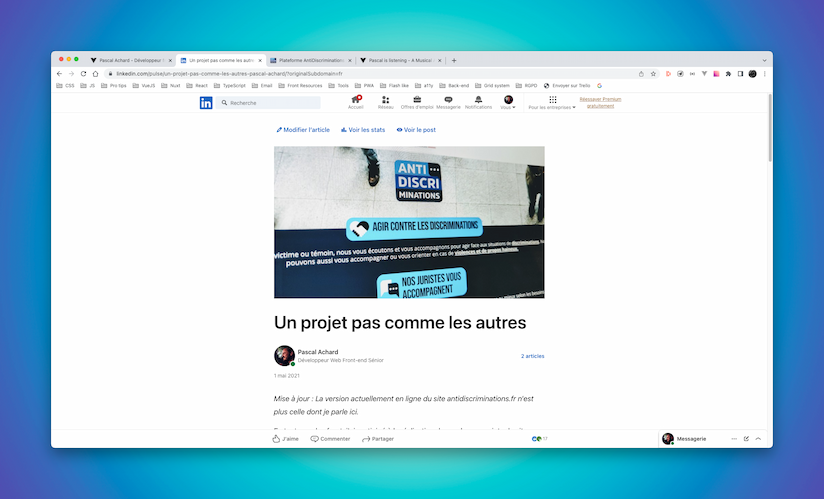
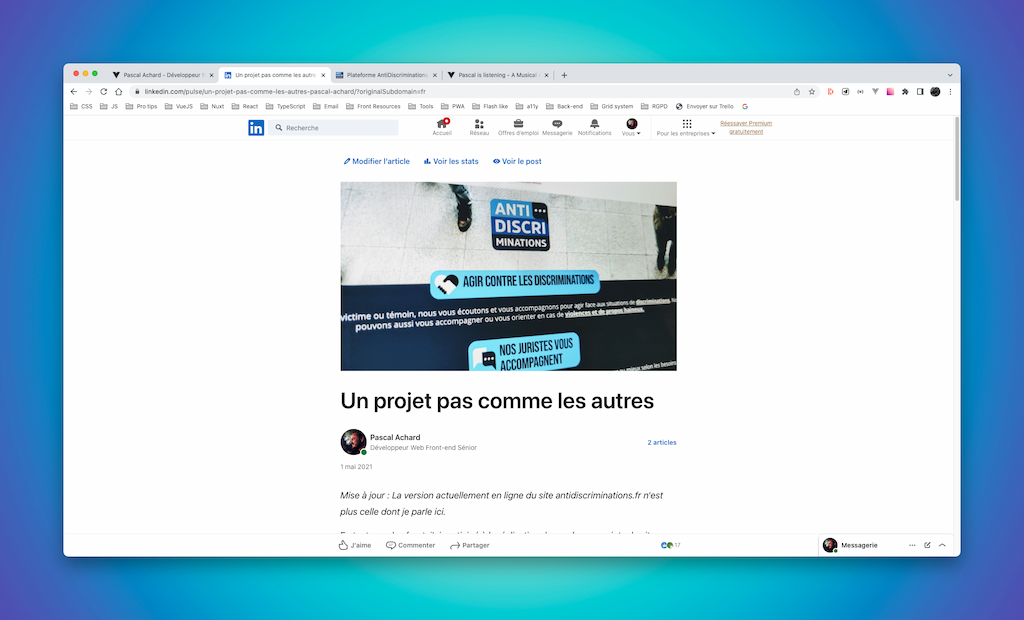
🩹 Fix images size

diff --git a/content/fr/index.md b/content/fr/index.md
@@ -52,7 +52,7 @@ outils. J'ai une appétence pour le graphisme et la musique.
 
 [antidiscriminations.fr](https://www.antidiscriminations.fr/){target="_blank" rel="noopener"}
 
-![Image site 'antidiscriminations.fr'](/images/content/antidiscriminations.fr.webp){width="824" height="499"}
+![Image site 'antidiscriminations.fr'](/images/content/antidiscriminations.fr.webp){width="1024" height="620"}
 
 Agir contre les discriminations, un projet pas comme les autres. J'en
 parle [ici](https://www.linkedin.com/pulse/un-projet-pas-comme-les-autres-pascal-achard/){target="_blank" rel="
@@ -62,7 +62,7 @@ noopener"}.
 
 [pascal is listening](https://pascal-is-listening.onrender.com/){target="_blank" rel="noopener"}
 
-![Image site 'pascal is listening'](/images/content/pascal-is-listening.webp){width="824" height="499"}
+![Image site 'pascal is listening'](/images/content/pascal-is-listening.webp){width="1024" height="620"}
 
 Application web qui affiche les titres des chansons que je suis en train d'écouter sur Spotify.
 

diff --git a/content/en/index.md b/content/en/index.md
@@ -47,7 +47,7 @@ tools. I have an interest in graphic design and music.
 
 [antidiscriminations.fr](https://www.antidiscriminations.fr/){target="_blank" rel="noopener"}
 
-![Image 'antidiscriminations.fr'](/images/content/antidiscriminations.fr.webp){width="824" height="499"}
+![Image 'antidiscriminations.fr'](/images/content/antidiscriminations.fr.webp){width="1024" height="620"}
 
 Acting against discrimination, a project like no other. I talk about it [here](https://www.linkedin.com/pulse/un-projet-pas-comme-les-autres-pascal-achard/){target="_blank" rel="
 noopener"}.
@@ -56,7 +56,7 @@ noopener"}.
 
 [pascal is listening](https://pascal-is-listening.onrender.com/){target="_blank" rel="noopener"}
 
-![Image 'pascal is listening'](/images/content/pascal-is-listening.webp){width="824" height="499"}
+![Image 'pascal is listening'](/images/content/pascal-is-listening.webp){width="1024" height="620"}
 
 Web application that displays the titles of the songs I'm listening to on Spotify.
 
